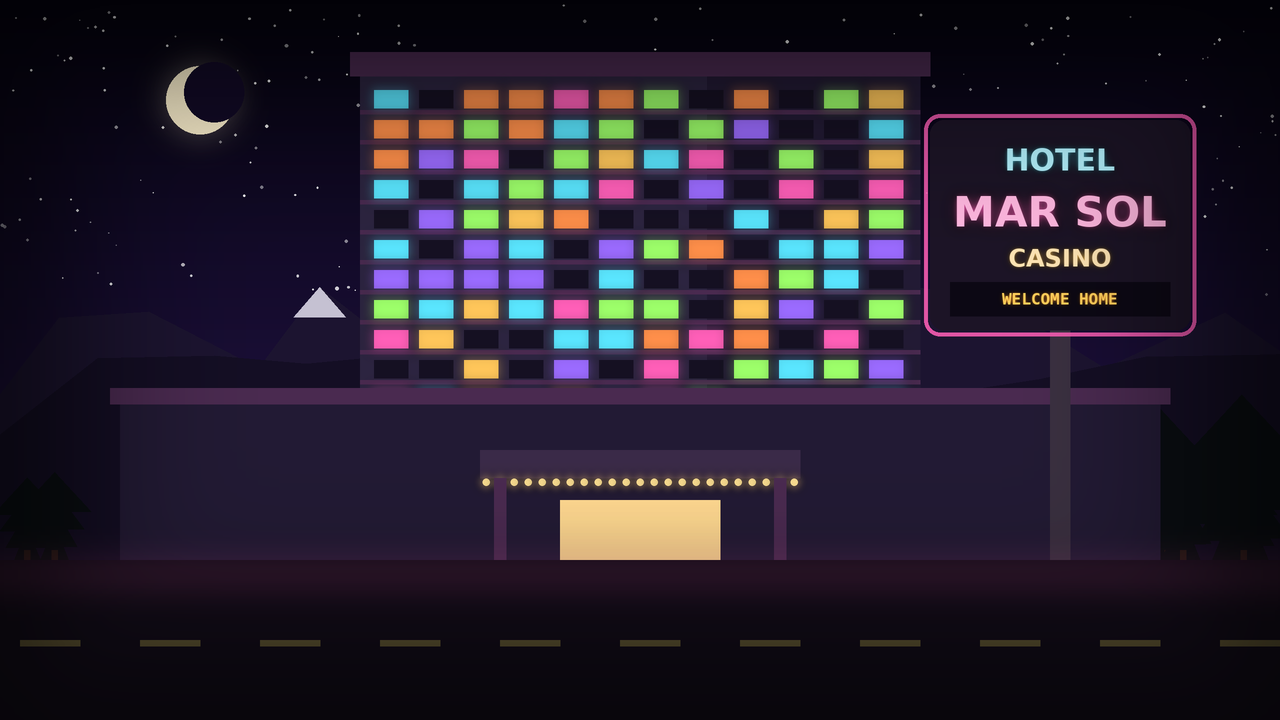
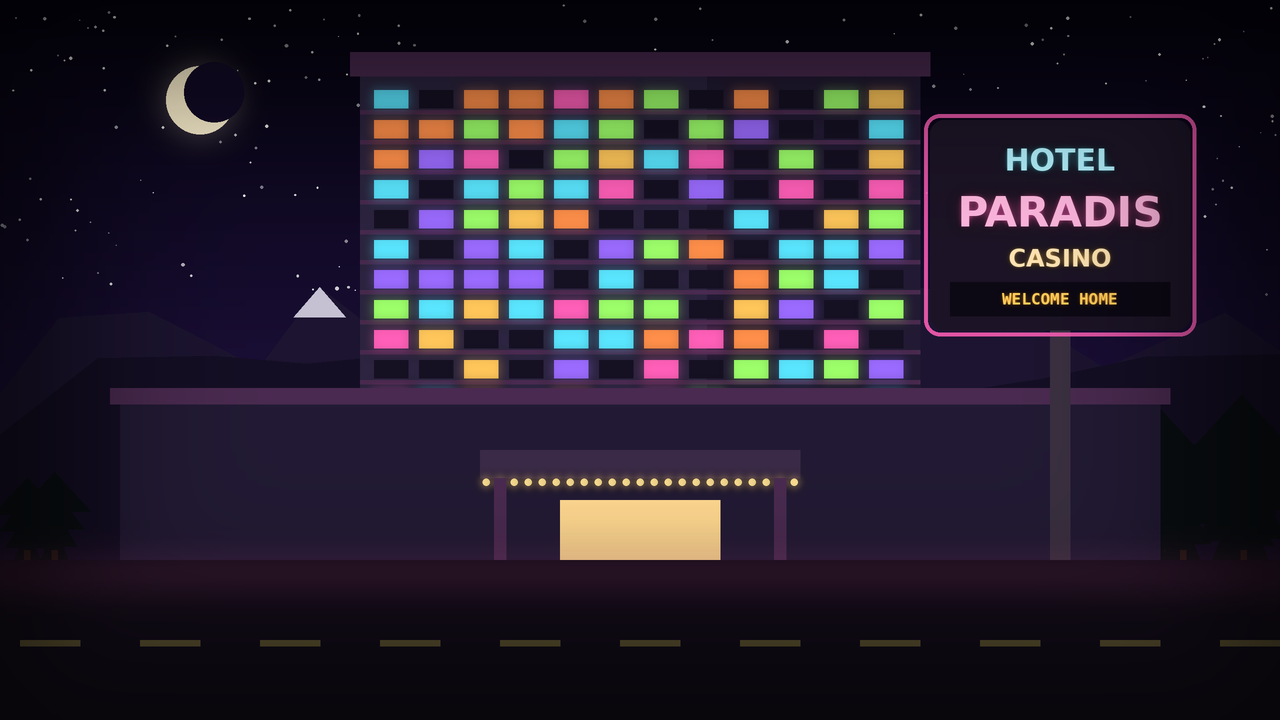
Rename the hotel to the Hotel Paradiso
The sign gag is now the final O burning out: HOTEL PARADIS.

Claude-Session: https://claude.ai/code/session_01XxUzmF2xR266tqaPiRDdBK

Changed region(s): [[0.7188, 0.2444, 0.9062, 0.3361]]

diff --git a/tools/make_backgrounds.py b/tools/make_backgrounds.py
@@ -936,7 +936,7 @@ def bg_letitgo():
     c.save(os.path.join(OUT, "letitgo.png"))
 
 
-# ---------------------------------------------------------------- the Hotel Marisol (Tahoe hotel-casino)
+# ---------------------------------------------------------------- the Hotel Paradiso (Tahoe hotel-casino)
 def mountains(c, y, color_far, color_near, seed=3):
     R = rng(seed)
     for layer, (base, amp, colr) in enumerate([(y, 150, color_far), (y + 30, 100, color_near)]):
@@ -1009,14 +1009,14 @@ def casino_tower(c, night):
     if night:
         c.rect((sx - 136, 114, sx + 136, 336), outline=col(PINK, 220), width=4, r=16)
         c.neon_text((sx, 160), "HOTEL", 30, CYAN)
-        c.neon_text((sx, 212), "MAR SOL", 42, PINK)
+        c.neon_text((sx, 212), "PARADIS", 42, PINK)
         c.neon_text((sx, 258), "CASINO", 24, GOLD)
         c.rect((sx - 110, 282, sx + 110, 316), fill="#0c0814")
         c.text((sx, 299), "WELCOME HOME", 16, "#ffcf5a", font="mono", glow="#ff9a2a")
     else:
         c.rect((sx - 136, 114, sx + 136, 336), outline="#c84a7a", width=4, r=16)
         c.text((sx, 160), "HOTEL", 30, "#3cc0e0")
-        c.text((sx, 212), "MAR SOL", 42, "#f05a9a")
+        c.text((sx, 212), "PARADIS", 42, "#f05a9a")
         c.text((sx, 258), "CASINO", 24, "#d8a030")
         c.rect((sx - 110, 282, sx + 110, 316), fill="#0c0814")
         c.text((sx, 299), "WELCOME HOME", 16, "#d8a040", font="mono")

diff --git a/ART_PROMPTS.md b/ART_PROMPTS.md
@@ -23,7 +23,7 @@ ART STYLE (applies to every image in this conversation)
 - Coloring: cel shading. Flat base colors, one crisp shadow tone per material, and small sharp highlights. Soft airbrushed gradients only for glows, cheek blush, hair shine and skies.
 - Palette: saturated and warm, never muddy or grey. Signature accent colors: hot pink #FF5FB8, violet #9B6BFF, cyan #5AE6FF, warm gold #FFC65A. Night scenes sit in deep midnight purple and indigo (#160C28) lit by those neon accents. Day scenes are warm peach, turquoise and gold under clear light.
 - Lighting: clear and readable. Colored light from the environment, gentle bloom around lamps, neon and screens, and colored rim light at night (pink from one side, cyan from the other).
-- World and mood: a secret, kind, absurd art party inside the Hotel Marisol, an aging 1970s hotel-casino tower on the Nevada shore of Lake Tahoe, showing its age (swirly casino carpet, brass, mirrored ceilings, dark slot machines), where every room has been turned into an art installation. Playful, warm, a little surreal and magical. Never grimy, gory, horror-dark, sexy or edgy.
+- World and mood: a secret, kind, absurd art party inside the Hotel Paradiso, an aging 1970s hotel-casino tower on the Nevada shore of Lake Tahoe, showing its age (swirly casino carpet, brass, mirrored ceilings, dark slot machines), where every room has been turned into an art installation. Playful, warm, a little surreal and magical. Never grimy, gory, horror-dark, sexy or edgy.
 - Text: only the exact words given in quotation marks, spelled exactly, in clean bold sans-serif lettering. No other writing, captions, signatures, watermarks, logos, borders, speech bubbles or UI.
 
 BACKGROUND RULES
@@ -45,7 +45,7 @@ ART STYLE (applies to every image in this conversation)
 - Coloring: cel shading. Flat base colors, one crisp shadow tone per material, and small sharp highlights. Soft airbrushed gradients only for glows, cheek blush, hair shine and skies.
 - Palette: saturated and warm, never muddy or grey. Signature accent colors: hot pink #FF5FB8, violet #9B6BFF, cyan #5AE6FF, warm gold #FFC65A. Night scenes sit in deep midnight purple and indigo (#160C28) lit by those neon accents. Day scenes are warm peach, turquoise and gold under clear light.
 - Lighting: clear and readable. Colored light from the environment, gentle bloom around lamps, neon and screens, and colored rim light at night (pink from one side, cyan from the other).
-- World and mood: a secret, kind, absurd art party inside the Hotel Marisol, an aging 1970s hotel-casino tower on the Nevada shore of Lake Tahoe, showing its age (swirly casino carpet, brass, mirrored ceilings, dark slot machines), where every room has been turned into an art installation. Playful, warm, a little surreal and magical. Never grimy, gory, horror-dark, sexy or edgy.
+- World and mood: a secret, kind, absurd art party inside the Hotel Paradiso, an aging 1970s hotel-casino tower on the Nevada shore of Lake Tahoe, showing its age (swirly casino carpet, brass, mirrored ceilings, dark slot machines), where every room has been turned into an art installation. Playful, warm, a little surreal and magical. Never grimy, gory, horror-dark, sexy or edgy.
 - Text: only the exact words given in quotation marks, spelled exactly, in clean bold sans-serif lettering. No other writing, captions, signatures, watermarks, logos, borders, speech bubbles or UI.
 
 CHARACTER SPRITE RULES
@@ -102,7 +102,7 @@ Two things about how the game shows backgrounds, which every prompt already acco
 > Generate this one first, then use it for the night version below so the building matches.
 
 ```text
-An aging 1970s hotel-casino on the Nevada shore of Lake Tahoe at sunset. A sixteen-story beige concrete tower with horizontal bands of windows and terracotta trim, a low casino wing in front, and a porte-cochere entrance edged with a row of round marquee bulbs. On the right, a huge vintage roadside casino sign on a pylon reads "HOTEL MAR SOL" (the I of MARISOL has burned out and left a gap), with "CASINO" below it. Snow-capped mountains and tall pine trees behind, a sky fading from violet to hot pink to tangerine. An empty parking lot in the foreground. Faded glamour, a little tired, still proud.
+An aging 1970s hotel-casino on the Nevada shore of Lake Tahoe at sunset. A sixteen-story beige concrete tower with horizontal bands of windows and terracotta trim, a low casino wing in front, and a porte-cochere entrance edged with a row of round marquee bulbs. On the right, a huge vintage roadside casino sign on a pylon reads "HOTEL PARADIS" (the final O of PARADISO has burned out and left a dark gap), with "CASINO" below it. Snow-capped mountains and tall pine trees behind, a sky fading from violet to hot pink to tangerine. An empty parking lot in the foreground. Faded glamour, a little tired, still proud.
 
 Follow the style guide from the start of this conversation: a 2D anime visual-novel background, cel-shaded, 16:9, empty of people, with the center open and the bottom third simple.
 ```

diff --git a/README.md b/README.md
@@ -1,6 +1,6 @@
 # Do Not Disturb
 
-*Three nights at the Hotel Marisol.*
+*Three nights at the Hotel Paradiso.*
 
 A Ren'Py visual novel set at a secret, invite-only party in an aging 1970s hotel-casino on the shore of Lake Tahoe, where every hotel room has been turned into an interactive art piece. You (off-screen, never named) spend three days and nights meeting the guests: by the pool in the afternoons, and wandering the hallways at night, where people pull you into the art rooms. Build enough rapport with someone and, after the 11:11 ceremony on the last night, you can find them for a final scene at sunrise.
 
